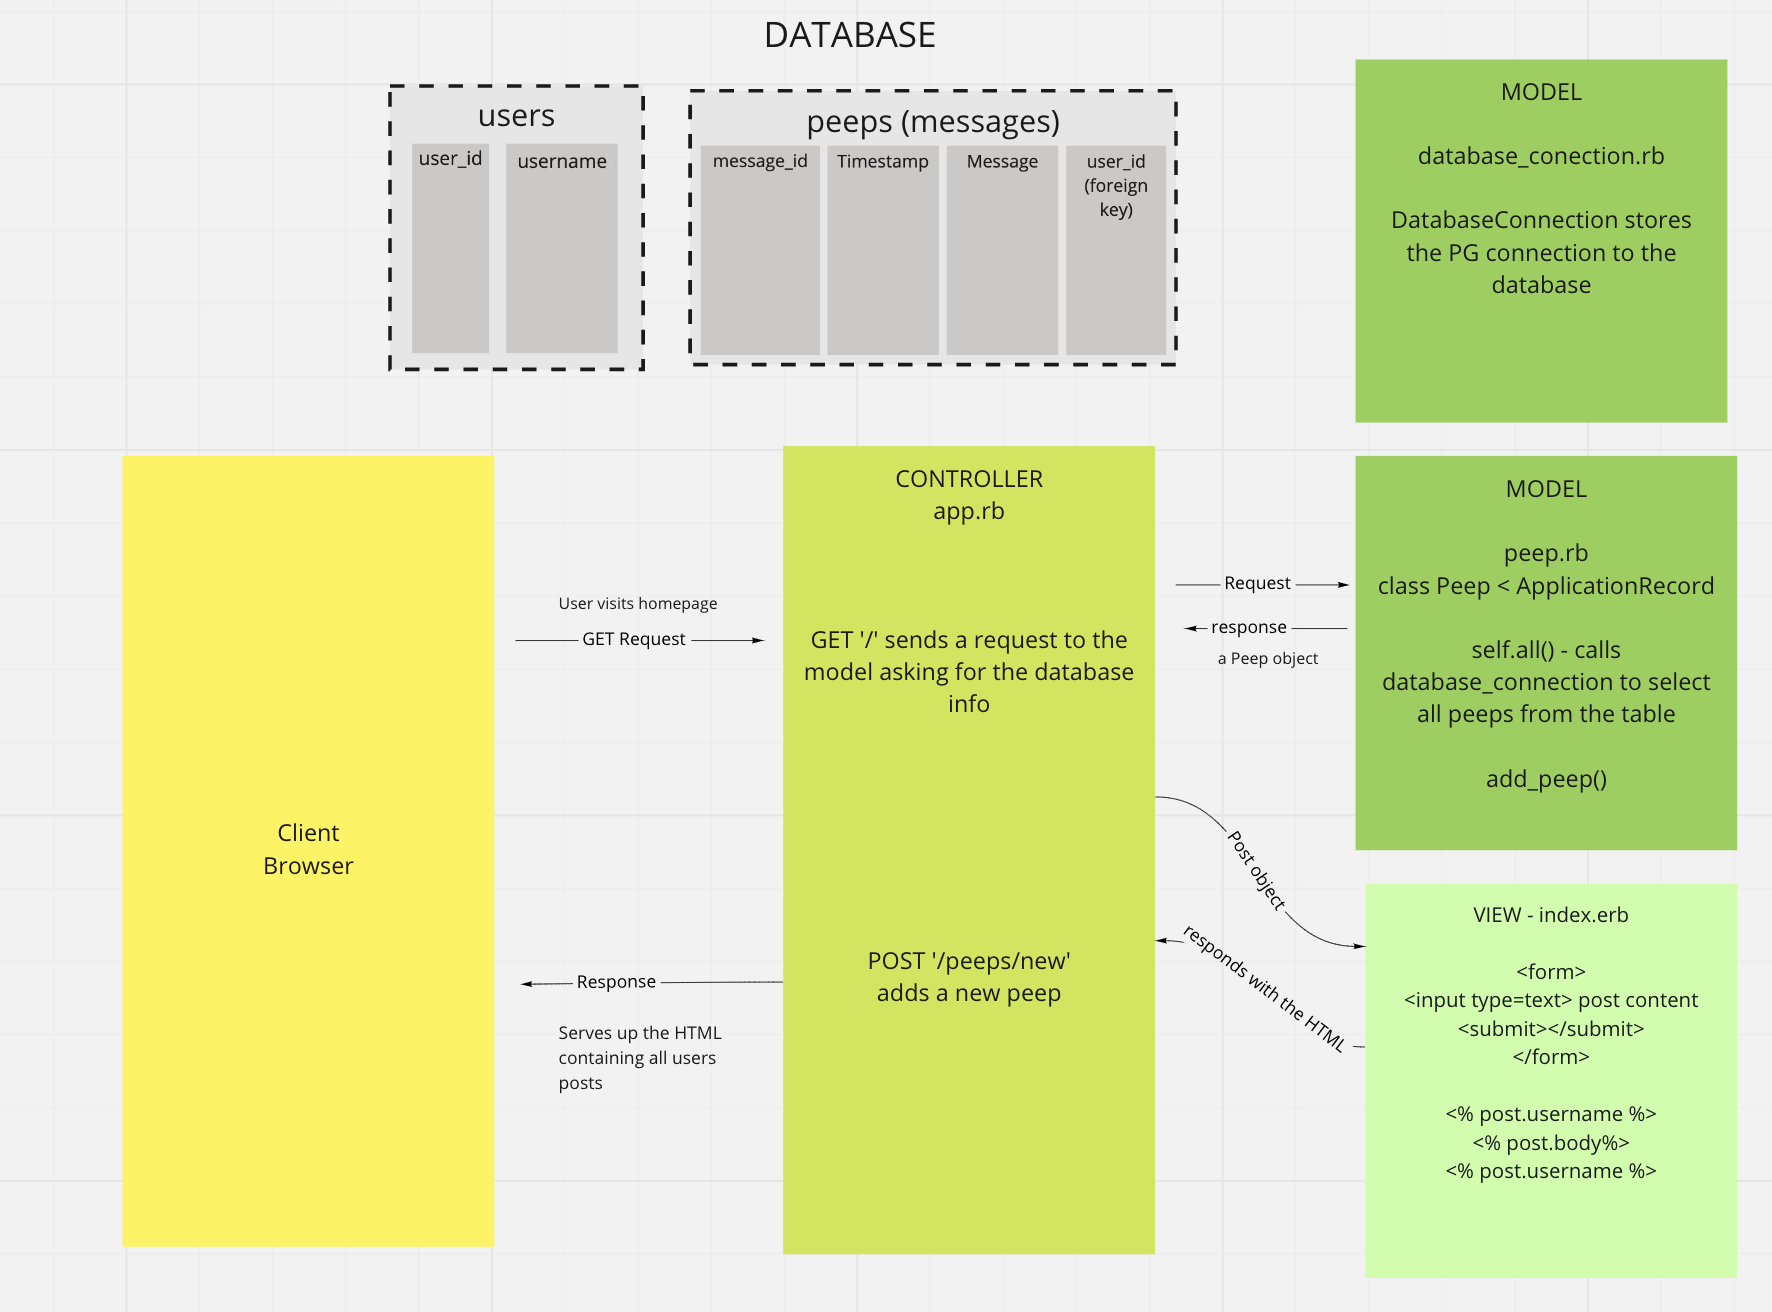
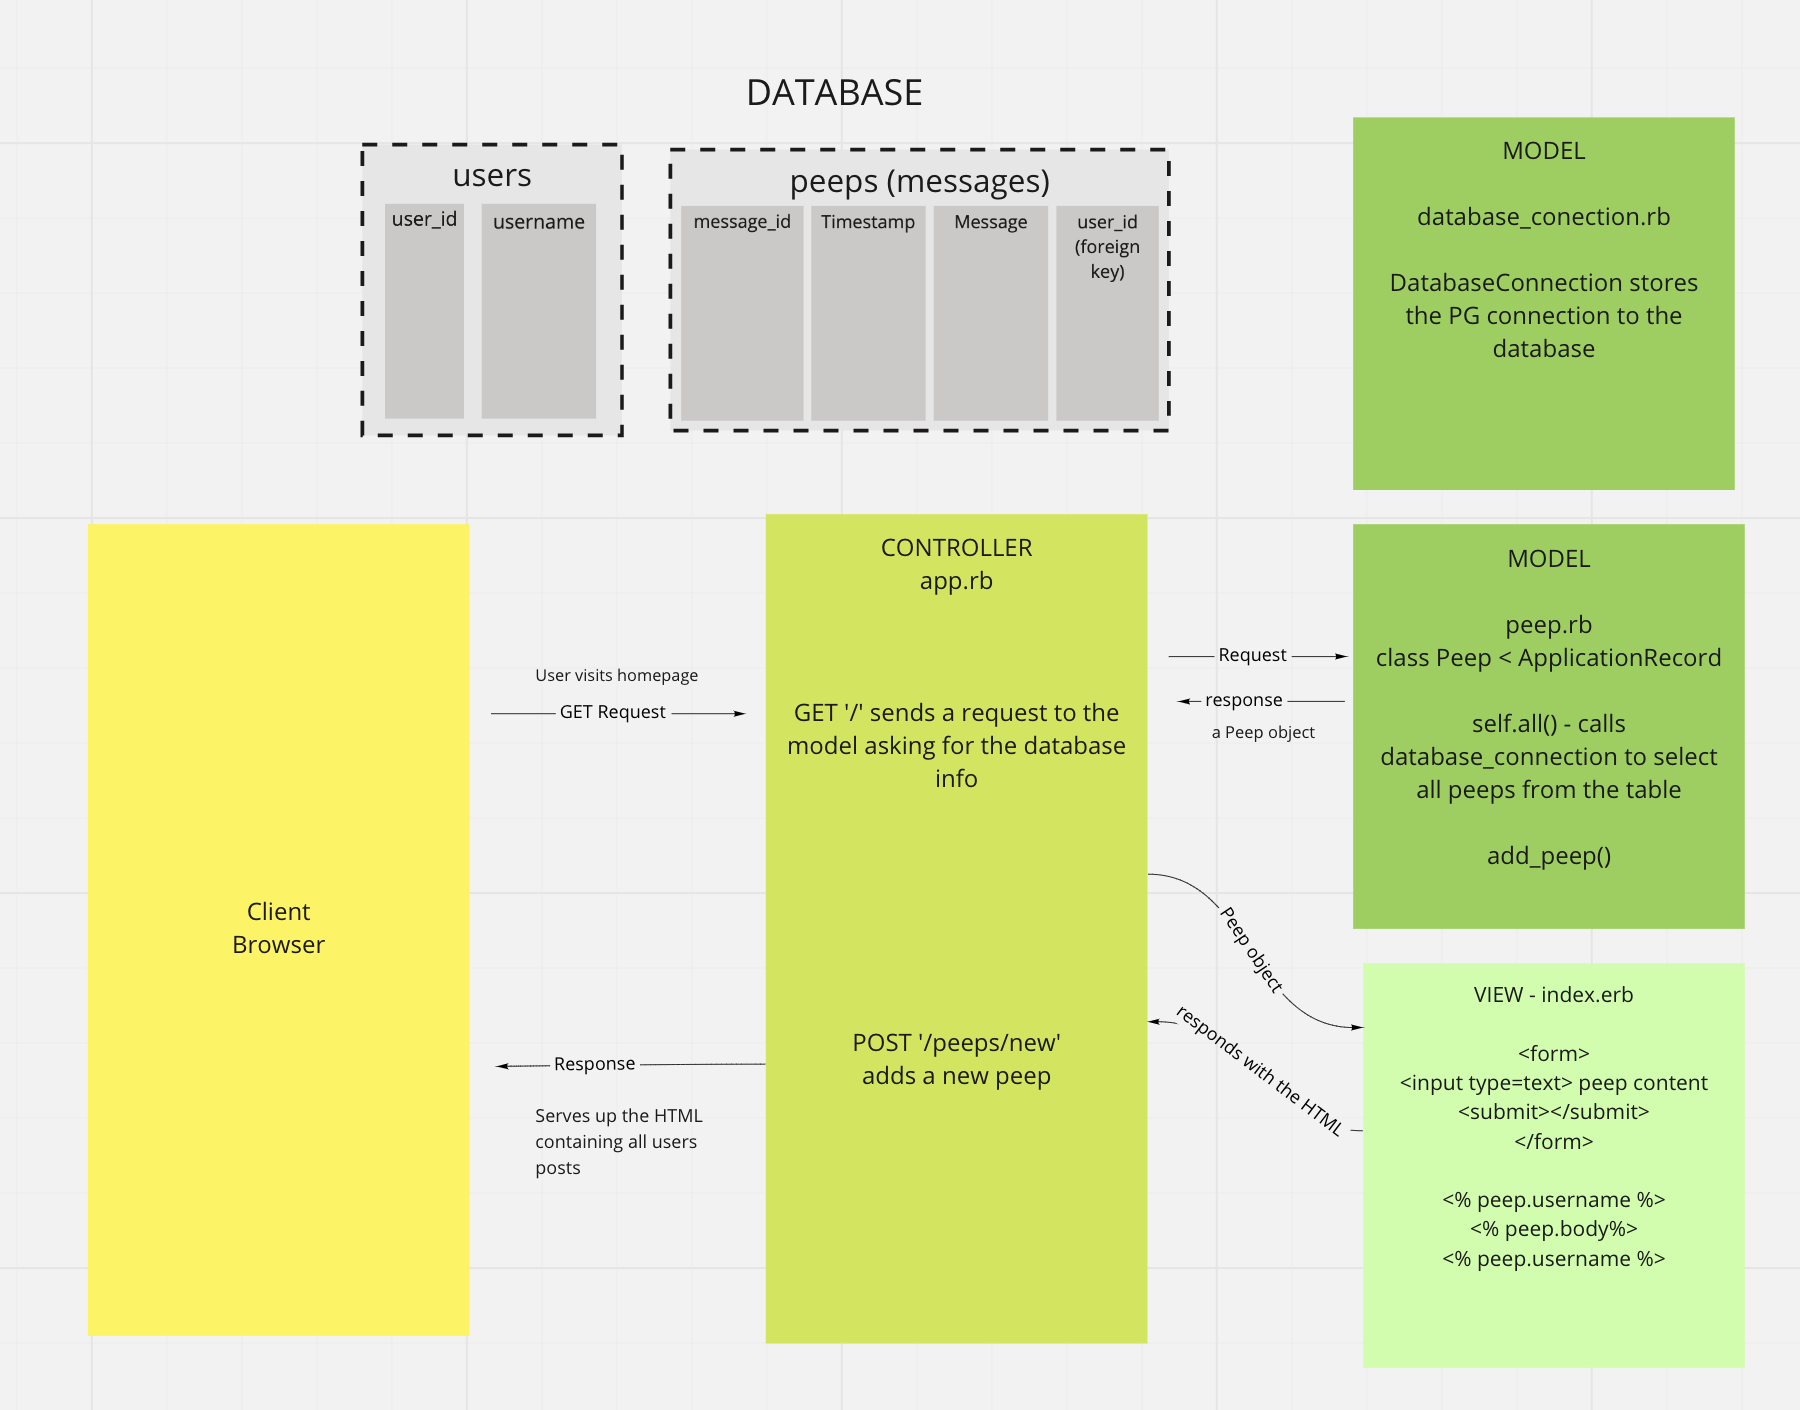
updated MVC model - passed rspec: a user can post a peep

diff --git a/app.rb b/app.rb
@@ -1,15 +1,19 @@
 require 'sinatra/base'
 require 'sinatra/reloader'
 
+
 class Chitter < Sinatra::Base
   configure :development do
     register Sinatra::Reloader
   end
 
   get '/' do 
-  'Hello World'
+    erb :'home/index'
   end 
 
+  post '/home' do
+    'this is my first peep'
+  end 
 
 run if app_file == $0 
 end

diff --git a/spec/features/posting_a_peep_spec.rb b/spec/features/posting_a_peep_spec.rb
@@ -1,0 +1,12 @@
+feature 'Posting a message (peep)' do
+  scenario 'A user can post a message to the app' do
+    visit ('/')
+    fill_in 'peep-body', with: 'this is my first post'
+    click_on 'Peep' # submit's the post
+
+    expect(page).to have_content 'this is my first peep'
+
+  end
+
+
+end

diff --git a/spec/spec_helper.rb b/spec/spec_helper.rb
@@ -15,6 +15,8 @@ require 'rspec'
 ENV['RACK_ENV'] = 'test'
 require File.join(File.dirname(__FILE__), '..', 'app.rb')
 
+Capybara.app = Chitter
+
 RSpec.configure do |config|
   config.after(:suite) do
     puts

diff --git a/db/migrations/PSQL_README.md b/db/migrations/PSQL_README.md
@@ -1,0 +1,26 @@
+refer to https://www.postgresqltutorial.com/postgresql-cheat-sheet/
+making a database
+make sure u r in psql
+
+CREATE DATABASE chitter_app;
+
+do \c chitter_app 
+to connect to the database  (and check if it has been made)
+
+CREATE TABLE peeps (peep_id SERIAL PRIMARY KEY, created_at TIMESTAMP, message_body VARCHAR(60), user_id VARCHAR(60));
+
+ Use psql to create a table called bookmarks in the bookmark_manager database, with two columns: id, a SERIAL PRIMARY KEY, and url, a VARCHAR with a maximum length of 60.
+
+ CREATE [TEMP] TABLE [IF NOT EXISTS] table_name(
+   pk SERIAL PRIMARY KEY,
+   c1 type(size) NOT NULL,
+   c2 type(size) NULL,
+   ...
+);
+
+\dt to see the table
+
+Connect to psql
+Create the database using the psql command CREATE DATABASE bookmark_manager;
+Connect to the database using the pqsl command \c bookmark_manager;
+Run the query we have saved in the file 01_create_bookmarks_table.sql 
